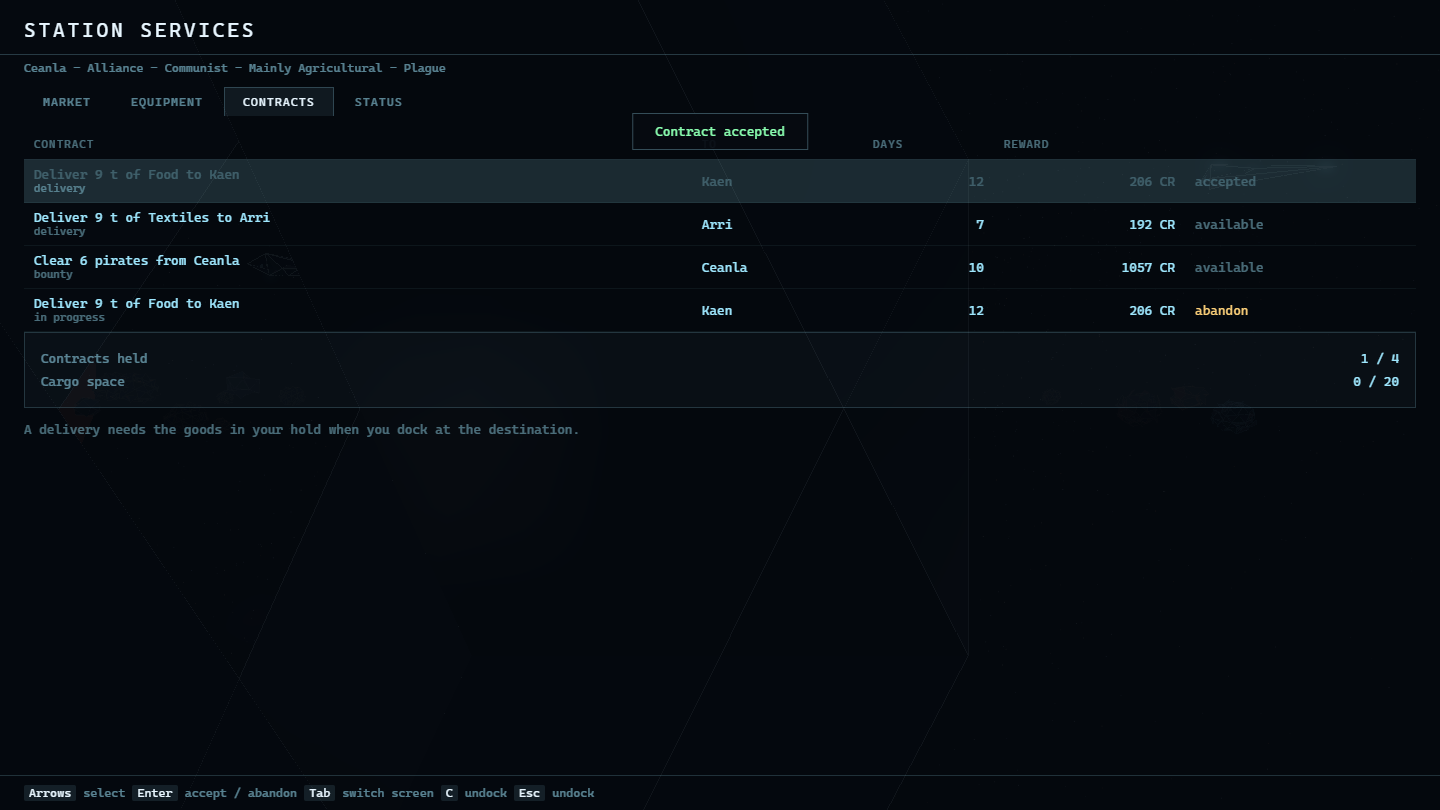
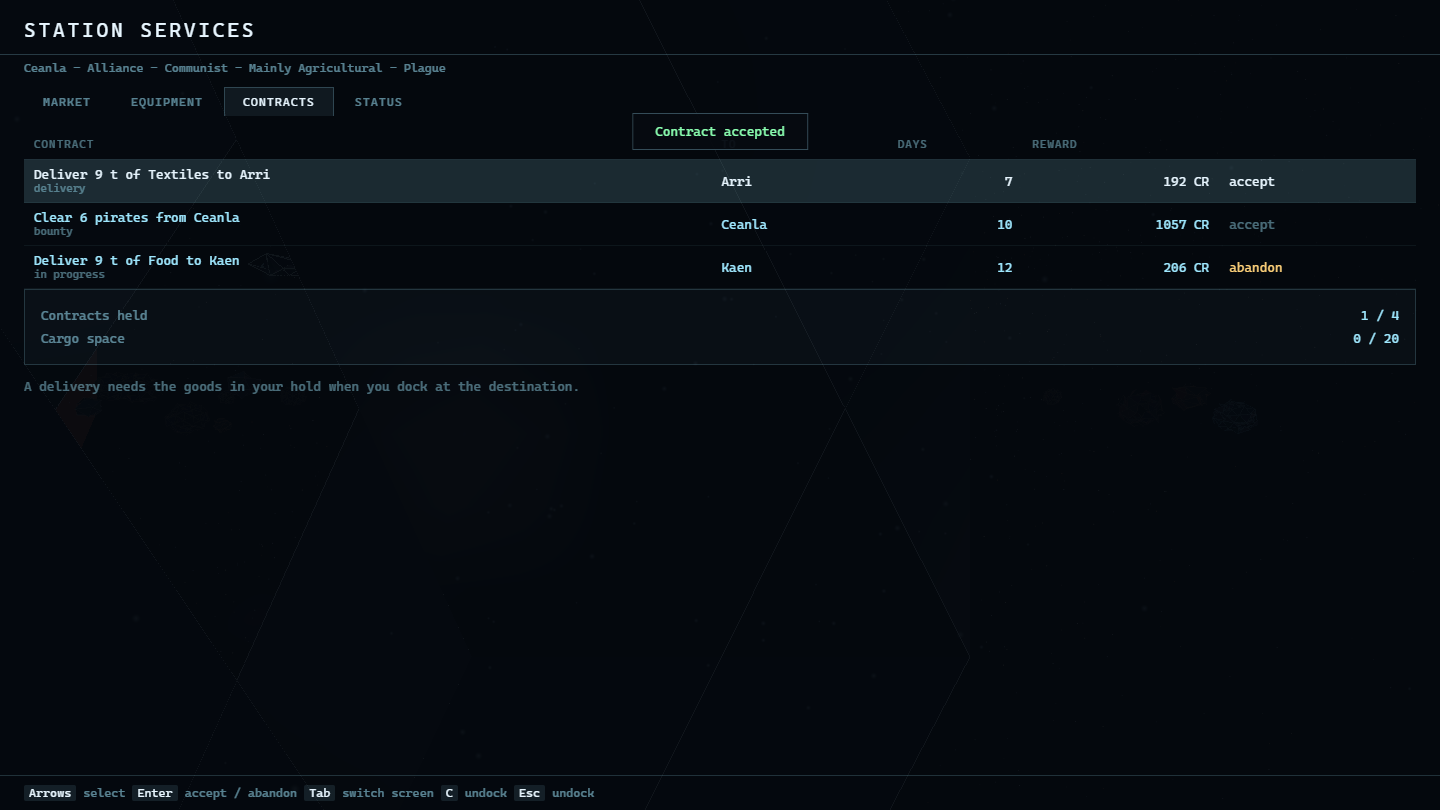
fix: взятый контракт больше не показывается на доске дважды
Задание оставалось в списке тусклой строкой «accepted» и тут же повторялось
живой строкой «in progress / abandon». Одно и то же задание дважды в одном
списке читается как дефект, а не как сведения.

Объяснение у этого было («предложения и принятые — один список с одним
курсором»), но оно относилось к курсору, а не к строкам: курсор может ходить
по списку, в котором одна строка на задание. Взятые предложения
отфильтрованы; порядок и единственный курсор сохранены.

Последняя колонка теперь единообразно говорит, что сделает Enter: «accept» у
доступных, «abandon» у взятых — и совпадает с подсказкой внизу.

Проверка offer.taken в activateContract убрана как недостижимая. Настоящая
защита от двойного взятия — в MISSIONS.accept, она от экрана не зависит.

Тесты: «Enter по взятому предложению отказывает» заменён на «взятого
предложения в списке нет вовсе» (первый описывал прежнее поведение как
требование); перенос курсора пересчитан с четырёх строк на три.

diff --git a/tests/station.test.js b/tests/station.test.js
@@ -703,13 +703,14 @@ test('the contracts tab lists the offers and the live contracts', () => {
 });
 
 test('the board is ordered offers first, then contracts already taken', () => {
-  // One cursor over one list. The order is what makes that legible.
+  // One cursor over one list. The order is what makes that legible: the jobs
+  // you could take, then the jobs you have.
   const { ui, host } = freshUI();
   ui.open(stateWithBoard());
   ui.setTab('contracts');
   const text = host.textContent;
   assert.ok(text.indexOf('Ceeri') < text.indexOf('Diso'),
-    'a taken contract is listed above an offer');
+    'a live contract is listed above an available offer');
 });
 
 test('Enter on an offer accepts it', () => {
@@ -722,14 +723,24 @@ test('Enter on an offer accepts it', () => {
   assert.equal(accept.args[0], 'o1');
 });
 
-test('Enter on an offer already taken refuses rather than accepting twice', () => {
-  const { ui, calls } = freshUI();
+test('a taken offer is not listed at all, so no job appears twice', () => {
+  // The fixture's third offer is already taken and is also the live contract.
+  // It used to be listed twice - dimmed at the top as "accepted", again at the
+  // bottom as "in progress" - which reads as a duplicate rather than as
+  // information. One list, one cursor, one row per job.
+  const { ui, host } = freshUI();
   ui.open(stateWithBoard());
   ui.setTab('contracts');
-  ui.moveSelection(2);            // the third row, which is already accepted
-  ui.activate();
-  assert.equal(calls.find((c) => c.key === 'acceptContract'), undefined,
-    'an already-accepted offer was accepted again');
+  const rows = Array.from(host.querySelectorAll('tr'))
+    .filter((tr) => tr.classList.contains('selectable'));
+  assert.equal(rows.length, 3, 'expected two available offers and one live contract');
+  assert.equal(rows.filter((tr) => tr.textContent.includes('Diso')).length, 1,
+    'the taken job is listed more than once');
+  // And the row that is left says what Enter does with it.
+  assert.ok(rows[2].textContent.includes('abandon'),
+    'the live row does not say what Enter does');
+  assert.ok(rows[0].textContent.includes('accept'),
+    'an available row does not say what Enter does');
 });
 
 test('Enter on a live contract abandons it', () => {
@@ -738,7 +749,7 @@ test('Enter on a live contract abandons it', () => {
   const { ui, calls } = freshUI();
   ui.open(stateWithBoard());
   ui.setTab('contracts');
-  ui.moveSelection(3);            // past the three offers, onto the live one
+  ui.moveSelection(2);            // past the two available offers, onto the live one
   ui.activate();
   const abandon = calls.find((c) => c.key === 'abandonContract');
   assert.ok(abandon, 'nothing was abandoned');
@@ -746,17 +757,17 @@ test('Enter on a live contract abandons it', () => {
 });
 
 test('the cursor wraps around the whole board', () => {
-  // Four rows (three offers and one live contract), so four steps forward is
-  // back where it started. Asserted by *acting*, because the cursor itself is
-  // private - and a wrap that silently stopped at the end would leave the last
-  // row unreachable from below.
+  // Three rows: two available offers and one live contract. Three steps
+  // forward is back where it started. Asserted by *acting*, because the cursor
+  // itself is private - and a wrap that silently stopped at the end would
+  // leave the last row unreachable from below.
   const { ui, calls } = freshUI();
   ui.open(stateWithBoard());
   ui.setTab('contracts');
-  for (let i = 0; i < 4; i += 1) ui.moveSelection(1);
+  for (let i = 0; i < 3; i += 1) ui.moveSelection(1);
   ui.activate();
   const accept = calls.find((c) => c.key === 'acceptContract');
-  assert.ok(accept, 'four steps did not return to the first row');
+  assert.ok(accept, 'three steps did not return to the first row');
   assert.equal(accept.args[0], 'o1');
 });
 

diff --git a/src/ui/station.js b/src/ui/station.js
@@ -323,8 +323,26 @@ export function createStationUI(host, on) {
    * offers come first because that is the decision being made; the live ones
    * sit underneath as a reminder of what is already owed.
    */
+  /**
+   * The offers a commander can still take.
+   *
+   * Taken offers are dropped rather than shown greyed out. The job is already
+   * in the list below as a live contract, and listing it twice - once dimmed at
+   * the top as "accepted", again at the bottom as "in progress" - reads as a
+   * duplicate, not as information. The commander sees it where it matters:
+   * among the jobs they are carrying.
+   *
+   * The cursor design is unchanged: still one list, still one cursor, with the
+   * available offers first and the taken ones after - just one row per job.
+   * `MISSIONS.accept` remains the real guard against taking a job twice; the
+   * screen no longer needs a second one.
+   */
+  function availableOffers(state) {
+    return ((state && state.offers) || []).filter((o) => !o.taken);
+  }
+
   function renderContracts(s) {
-    const offers = s.offers || [];
+    const offers = availableOffers(s);
     const live = s.contracts || [];
 
     if (!offers.length && !live.length) {
@@ -344,7 +362,6 @@ export function createStationUI(host, on) {
     offers.forEach((offer, i) => {
       const tr = el('tr', 'selectable');
       tr.classList.toggle('selected', i === selectedContract);
-      tr.classList.toggle('no-stock', !!offer.taken);
       tr.addEventListener('click', () => { selectedContract = i; render(); });
       tr.addEventListener('dblclick', () => { selectedContract = i; activateContract(); });
 
@@ -355,8 +372,9 @@ export function createStationUI(host, on) {
       tr.appendChild(el('td', '', offer.targetName));
       tr.appendChild(el('td', 'elite-num', String(offer.days)));
       tr.appendChild(el('td', 'elite-num', offer.reward + ' CR'));
-      tr.appendChild(el('td', offer.taken ? 'elite-good' : 'elite-dim',
-        offer.taken ? 'accepted' : 'available'));
+      // The last column says what Enter will do on this row, which is why the
+      // live rows below say "abandon" and these say "accept".
+      tr.appendChild(el('td', 'elite-dim', 'accept'));
       table.appendChild(tr);
     });
 
@@ -591,7 +609,7 @@ export function createStationUI(host, on) {
   /** Offers plus live contracts, which is the length of the contracts list. */
   function contractRowCount() {
     const s = currentState || {};
-    return ((s.offers || []).length) + ((s.contracts || []).length);
+    return availableOffers(s).length + ((s.contracts || []).length);
   }
 
   /** Activate the current selection. */
@@ -635,11 +653,13 @@ export function createStationUI(host, on) {
    */
   function activateContract() {
     const s = currentState || {};
-    const offers = s.offers || [];
+    const offers = availableOffers(s);
     if (selectedContract < offers.length) {
       const offer = offers[selectedContract];
       if (!offer) return;
-      if (offer.taken) return notify('Already accepted');
+      // No `taken` check here any more: a taken offer is not in this list. The
+      // guard that matters lives in `MISSIONS.accept`, which refuses a
+      // duplicate id whatever the screen believes.
       if (actions.acceptContract) actions.acceptContract(offer.id);
       return;
     }

diff --git a/docs/CONTEXT.md b/docs/CONTEXT.md
@@ -47,12 +47,17 @@
 | 13 | P3 | **Зачистки доминируют по награде, и это делает «стоять на месте» выгоднее торговли.** В симуляции жадный по награде командир берёт 16 зачисток и ни одной грузовой работы; за 120 прыжков он проводит **81 день в зачистке** (при 200 прыжках — 136 из 200), потому что зачистка платит больше одного торгового рейса, а модель считает её как «один день на пирата». В реальной игре за это платят риском (можно погибнуть), но на бумаге остальные три типа контрактов строго хуже. Требует решения владельца: либо поднять награды грузовых работ, либо сделать зачистку дороже по времени, либо оставить как есть — риск и есть цена. |
 | 10 | P3 | Закрыто: зачистка делает целевую систему укреплённым гнездом — свои хосты поверх обычного трафика, ближе к станции, пополняются пока контракт открыт (см. журнал и ADR). |
 | 11 | P3 | **Курьеры стали редкими.** Резерв слота под зачистку отнял место у грузовых строк: замер 25 курьеров на 320 досок (8 %) против 85 (27 %) до правки. Зачисток 0 → 210, «только груз» 73 % → 27 %. Обмен осознанный, но если курьер нужен чаще — вариантов два: резервировать слот и под него (тогда доска всегда «1 доставка + 1 курьер + 1 зачистка», предсказуемо по форме) или выдавать курьера, когда у системы мало излишков. Требует решения владельца. |
-| 12 | P3 | **Вкладка Contracts показывает один и тот же контракт дважды.** Взятое задание остаётся на доске тусклой строкой «accepted» и тут же повторяется живой строкой «in progress / abandon». Это следствие сознательного решения «предложения и принятые — один список с одним курсором» (тест «доска упорядочена: предложения, потом принятые» это пинит), но выглядит как дубликат. Требует решения владельца: убрать взятую строку из предложений или оставить только её, пометив как принятую. |
+| 12 | — | Закрыто: взятое предложение убрано из списка доступных. Задание видно один раз — живой строкой «in progress» с действием «abandon». Курсор по-прежнему один над одним списком: доступные предложения, затем взятые. |
 
 ## Журнал работ
 
 | Дата | Изменение |
 |------|-----------|
+| 2026-09-16 | **Закрыта открытая проблема #12: взятый контракт больше не показывается дважды.** Было: задание оставалось на доске тусклой строкой «accepted» и тут же повторялось живой строкой «in progress / abandon». Теперь взятые предложения отфильтрованы — задание видно **один раз**, в разделе своих. Замер в браузере: принял контракт на Durice, на доске 3 строки, Durice упоминается **один** раз. |
+| 2026-09-16 | Курсор остался один над одним списком (доступные предложения, затем взятые) — это и было обоснованием исходного решения, и оно сохранено. Изменилось только число строк: одна на задание. Последняя колонка теперь читается единообразно — она говорит, что сделает Enter: «accept» у доступных, «abandon» у взятых. |
+| 2026-09-16 | Проверка `offer.taken` убрана из `activateContract` как недостижимая: взятого предложения в списке больше нет. Настоящая защита от двойного взятия — в `MISSIONS.accept`, которая отказывает по id, что бы ни думал экран. |
+| 2026-09-16 | Тесты обновлены осознанно, а не подогнаны: «Enter по взятому предложению отказывает» заменён на «взятого предложения в списке нет вовсе»; тесты переноса курсора пересчитаны с четырёх строк на три. **Третий случай за сессию, когда тест утверждал прежнее поведение как требование** — см. ADR. |
+| 2026-09-16 | **Третья ложная тревога за раунд.** Строка взятого контракта на снимке выглядела тусклее доступных. Замер `getComputedStyle`: у обеих строк `rgb(159,232,255)` и `opacity 1` — **разницы нет**. Взгляд сравнивал их с подсвеченной выбранной строкой выше и с тусклой подписью «in progress». Проверять надо вычисленный стиль, а не впечатление. |
 | 2026-09-16 | **Репозиторий опубликован и CI нашёл в нём дефект, который локально не виден.** `github.com/AlexanderKuzikov/Elite-Deep`, публичный, ветка `main`. Первый прогон CI: **юниты и сборка прошли, e2e упал** — `Cannot find module 'D:/GitHub/node_modules/puppeteer-core'`. |
 | 2026-09-16 | **Скрипт e2e зависел от пути на машине автора.** `require('D:/GitHub/node_modules/puppeteer-core')` — абсолютный путь, который работал только потому, что пакет лежал в **родительском** каталоге проекта. У любого, кто клонирует репозиторий, `npm run e2e` падал бы с той же ошибкой. `puppeteer-core` объявлен в `devDependencies`, импорт — обычный bare specifier. **Путь, который разрешается на одном компьютере, — это не зависимость.** |
 | 2026-09-16 | Почему это не поймали раньше: локально пакет находился из родительского каталога, поэтому e2e работал. Проверка «локально всё зелёное» не отличает зависимость от совпадения — отличает её только чистый прогон на другой машине. |

diff --git a/AGENTS.md b/AGENTS.md
@@ -307,6 +307,21 @@ e2e-shots/           # скриншоты, перезаписываются пр
 - **CI — это первая машина, которая не твоя.** Он нашёл этот дефект в первом же
   прогоне, потому что не имел ни родительского `node_modules`, ни моих путей.
   Заводи его до того, как понадобится.
+- **Дублирование в списке — почти всегда дефект, даже когда у него есть
+  объяснение в архитектуре.** Доска контрактов показывала взятое задание дважды:
+  тусклой строкой «accepted» наверху и живой строкой «in progress» ниже.
+  Объяснение было («предложения и принятые — один список с одним курсором»), но
+  оно относилось к **курсору**, а не к строкам: курсор может ходить по списку, в
+  котором одна строка на задание. Теперь взятые предложения отфильтрованы.
+- **Сравнивай вычисленный стиль, а не впечатление от снимка.** Строка взятого
+  контракта выглядела тусклее доступных — замер `getComputedStyle` дал
+  одинаковый `rgb(159,232,255)` и `opacity: 1`. Взгляд сравнивал её с
+  **подсвеченной выбранной** строкой выше и с тусклой подписью внутри неё.
+  Три ложные тревоги за один раунд, все закрыты замером.
+- **Убирая строку из списка, проверь, не осталось ли от неё проверки.**
+  `activateContract` содержал `if (offer.taken) return notify('Already accepted')`
+  — после фильтрации ветка стала недостижимой. Настоящая защита от двойного
+  взятия живёт в `MISSIONS.accept` и от экрана не зависит.
 - **`createMemory` внутри `enterSystem` означала «память всегда пуста».**
   Механика, которая должна накапливаться между визитами, не может жить на
   объекте, который пересобирается на каждом визите. Спрашивай не «где удобно
